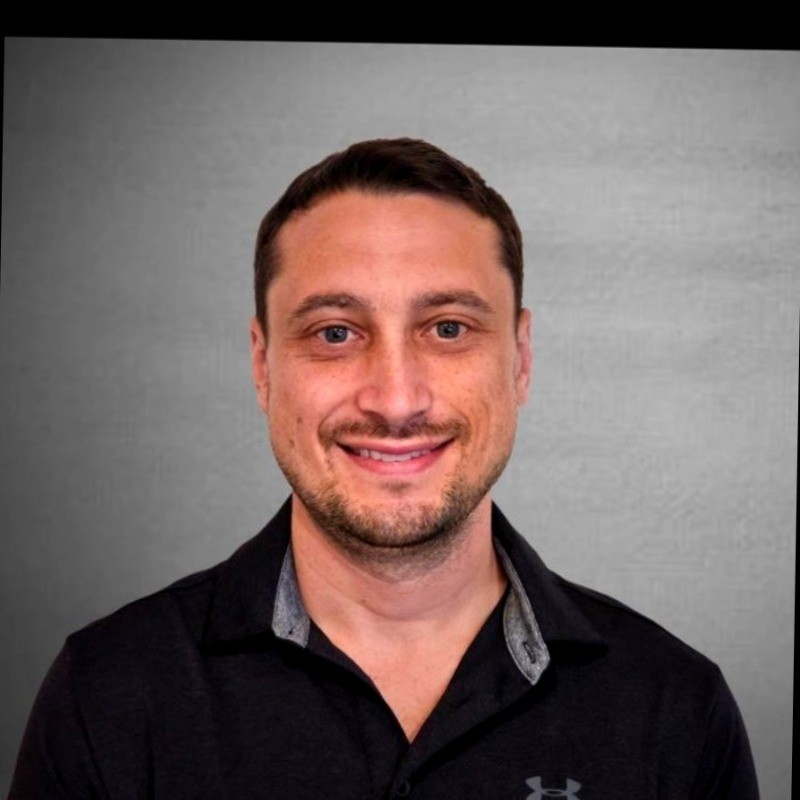
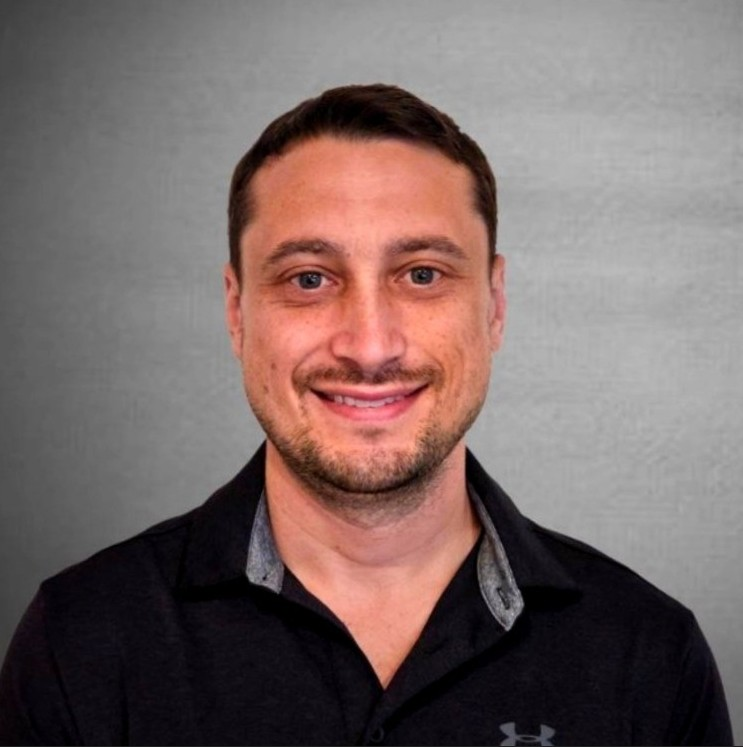
Image updates

diff --git a/src/app/team/page.tsx b/src/app/team/page.tsx
@@ -14,7 +14,7 @@ const teamMembers = [
     linkedinUrl: "https://www.linkedin.com/in/jacob-taunton-cloudengineer/",
     credlyUrl: "https://www.credly.com/users/jacob-taunton/badges#credly",
     about: "Experienced Security Engineer with 15+ years in cybersecurity and 4+ years in Generative AI. Deep expertise in Model Context Protocol (MCP), function calling, and agent frameworks.",
-    avatarUrl: "/images/team/jacob.png",
+  avatarUrl: "/images/team/Jacob.jpeg",
   },
   {
     name: "Michael Schecht",
@@ -25,7 +25,7 @@ const teamMembers = [
     linkedinUrl: "https://www.linkedin.com/in/michael-schecht/",
     credlyUrl: "https://www.credly.com/users/michael-schecht/badges#credly",
     about: "Security Engineer with 12+ years of experience specializing in Identity & Access Management (IAM). Focused on developing AI-driven automation for secure enterprise workflows.",
-    avatarUrl: "/images/team/michael.png",
+  avatarUrl: "/images/team/Michael.jpeg",
   },
   {
     name: "Heath Dorn",
@@ -35,7 +35,7 @@ const teamMembers = [
     email: "heath.dorn@ax-platform.com",
     linkedinUrl: "https://www.linkedin.com/in/heathdorn/",
     about: "Agile DevSecOps leader with 15+ years of experience in secure software engineering. Specializes in custom AI applications, including Voice and RAG models.",
-    avatarUrl: "/images/team/heath.png",
+  avatarUrl: "/images/team/Heath.jpeg",
   },
 ];
 
